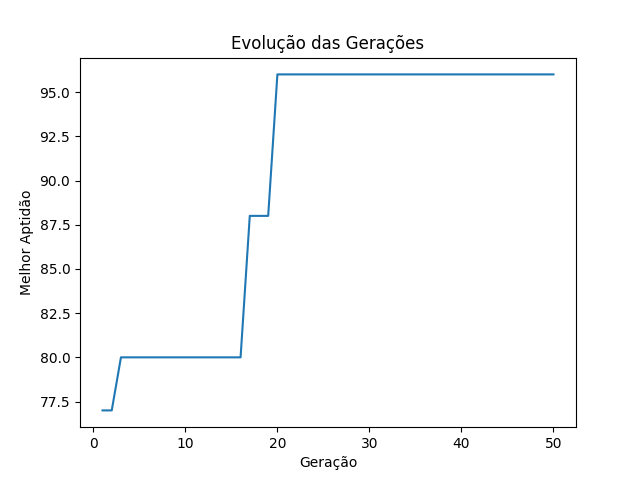
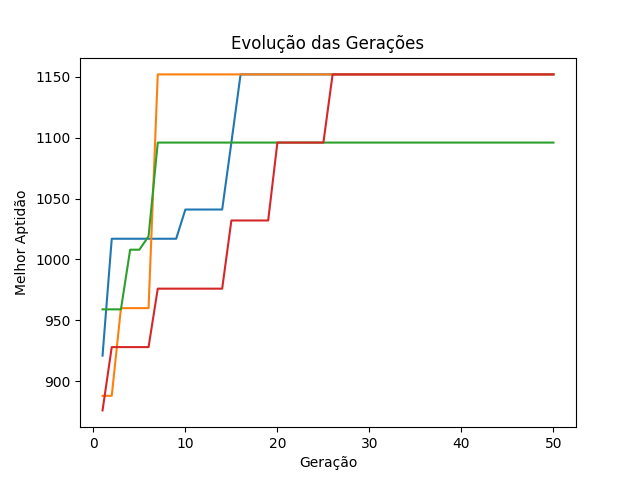
Reformulação da matriz de relacionamentos

diff --git a/algoritmoGenetico_flat.py b/algoritmoGenetico_flat.py
@@ -40,7 +40,7 @@ numero_pods = 10
 
 def gerar_matriz_nos():
     matriz_nos=[
-        {"id": 0, "cpu_no": 1000, "memoria_no": 1024},
+        {"id": 0, "cpu_no": 600, "memoria_no": 600},
         {"id": 1, "cpu_no": 1001, "memoria_no": 1024},
         {"id": 2, "cpu_no": 1002, "memoria_no": 1024}
     ]
@@ -61,16 +61,16 @@ def gerar_matriz_pods():
     ]
     
     matriz_relacionamentos = [
-        [0, 3, 0, 0, 5, 0, 6, 10, 0, 6],
-        [3, 0, 9, 5, 0, 0, 0, 2, 0, 0],
-        [0, 9, 0, 0, 7, 0, 10, 0, 0, 0],
-        [0, 5, 0, 0, 6, 10, 0, 0, 4, 5],
-        [5, 0, 7, 6, 0, 0, 5, 1, 0, 0],
-        [0, 0, 0, 10, 0, 0, 1, 0, 0, 10],
-        [6, 0, 10, 0, 5, 1, 0, 5, 0, 10],
-        [10, 2, 0, 0, 1, 0, 5, 0, 2, 5],
-        [0, 0, 0, 4, 0, 0, 0, 2, 0, 4],
-        [6, 0, 0, 5, 0, 10, 10, 5, 4, 0]
+        [0, 36, 0, 0, 60, 0, 72, 120, 0, 72],
+        [36, 0, 108, 60, 0, 0, 0, 24, 0, 0],
+        [0, 108, 0, 0, 84, 0, 120, 0, 0, 0],
+        [0, 60, 0, 0, 72, 120, 0, 0, 48, 60],
+        [60, 0, 84, 72, 0, 0, 60, 12, 0, 0],
+        [0, 0, 0, 120, 0, 0, 12, 0, 0, 120],
+        [72, 0, 120, 0, 60, 12, 0, 60, 0, 120],
+        [120, 24, 0, 0, 12, 0, 60, 0, 24, 60],
+        [0, 0, 0, 48, 0, 0, 0, 24, 0, 48],
+        [72, 0, 0, 60, 0, 120, 120, 60, 48, 0]
     ]
 
     return matriz_pods, matriz_relacionamentos

diff --git a/README.md b/README.md
@@ -44,23 +44,23 @@ Serão criadas três matrizes:
     ]
     ```
 - Matriz de Relacionamentos
-    - A matrid de relacionamentos é uma matriz simétrica
+    - A matriz de relacionamentos é uma matriz simétrica
     - Contem o peso do relacionamento entre os pods
     ```python
     matriz_relacionamentos = [
-        [0, 3, 0, 0, 5, 0, 6, 10, 0, 6],
-        [3, 0, 9, 5, 0, 0, 0, 2, 0, 0],
-        [0, 9, 0, 0, 7, 0, 10, 0, 0, 0],
-        [0, 5, 0, 0, 6, 10, 0, 0, 4, 5],
-        [5, 0, 7, 6, 0, 0, 5, 1, 0, 0],
-        [0, 0, 0, 10, 0, 0, 1, 0, 0, 10],
-        [6, 0, 10, 0, 5, 1, 0, 5, 0, 10],
-        [10, 2, 0, 0, 1, 0, 5, 0, 2, 5],
-        [0, 0, 0, 4, 0, 0, 0, 2, 0, 4],
-        [6, 0, 0, 5, 0, 10, 10, 5, 4, 0]
+        [0, 36, 0, 0, 60, 0, 72, 120, 0, 72],
+        [36, 0, 108, 60, 0, 0, 0, 24, 0, 0],
+        [0, 108, 0, 0, 84, 0, 120, 0, 0, 0],
+        [0, 60, 0, 0, 72, 120, 0, 0, 48, 60],
+        [60, 0, 84, 72, 0, 0, 60, 12, 0, 0],
+        [0, 0, 0, 120, 0, 0, 12, 0, 0, 120],
+        [72, 0, 120, 0, 60, 12, 0, 60, 0, 120],
+        [120, 24, 0, 0, 12, 0, 60, 0, 24, 60],
+        [0, 0, 0, 48, 0, 0, 0, 24, 0, 48],
+        [72, 0, 0, 60, 0, 120, 120, 60, 48, 0]
     ]
     ```
-- O algoritmo busca a melhor alocação possível de forma levando em consideração:
+- O algoritmo busca a melhor alocação possível levando em consideração:
     1. A taxa de comunicação entre os pods
         - Sendo interessante alocar no mesmo nós os pods que tenham maior taxa de comunicação
     2. O consumo de CPU
@@ -87,9 +87,9 @@ prob_mutacao = 0.3 # Probabilidade de mutação
 
 **Controle da Infraestrutura**
 
-As características de memória e cpu tanto dos Nós quanto dos PODs podem ser alteradas diretamente nas suas respectivas matrizes.
+As características de memória e cpu tanto dos Nós quanto dos PODs podem ser alteradas diretamente em suas respectivas matrizes.
 
-> **Note**: Para alteração da quantidade de Nós e de Pods é necessário alterar as variáveis numero_nos e numero_pod. Também é necessário adequar a matriz de relacionamentos conforme a nova quantidade de PODs inseridas.
+> **Note**: Para alteração da quantidade de Nós e de Pods é necessário alterar as variáveis: *numero_nos* e *numero_pod*. Também é necessário adequar a matriz de relacionamentos conforme a nova quantidade de PODs inseridas.
 
 ## Resultado do algoritmo
 
@@ -100,11 +100,11 @@ Exemplo de utilização:
 ---------------------------------------------
 
 Matriz dos Nos:
-Nó 0: Memória=1024 CPU=1000
+Nó 0: Memória=600 CPU=600
 Nó 1: Memória=1024 CPU=1001
 Nó 2: Memória=1024 CPU=1002
-Quantidade total de CPU dos Nós: 3003
-Quantidade total de Memória dos Nós: 3072
+Quantidade total de CPU dos Nós: 2603
+Quantidade total de Memória dos Nós: 2648
 
 Matriz de Pods:
 Pod 0: Memória=137 CPU=192
@@ -121,48 +121,50 @@ Quantidade total de CPU requerida pelos PODs: 1567
 Quantidade total de Memória requerida pelos PODs: 1397
 
 Matriz de Relacionamentos:
-[0, 3, 0, 0, 5, 0, 6, 10, 0, 6]
-[3, 0, 9, 5, 0, 0, 0, 2, 0, 0]
-[0, 9, 0, 0, 7, 0, 10, 0, 0, 0]
-[0, 5, 0, 0, 6, 10, 0, 0, 4, 5]
-[5, 0, 7, 6, 0, 0, 5, 1, 0, 0]
-[0, 0, 0, 10, 0, 0, 1, 0, 0, 10]
-[6, 0, 10, 0, 5, 1, 0, 5, 0, 10]
-[10, 2, 0, 0, 1, 0, 5, 0, 2, 5]
-[0, 0, 0, 4, 0, 0, 0, 2, 0, 4]
-[6, 0, 0, 5, 0, 10, 10, 5, 4, 0]
+[0, 36, 0, 0, 60, 0, 72, 120, 0, 72]
+[36, 0, 108, 60, 0, 0, 0, 24, 0, 0]
+[0, 108, 0, 0, 84, 0, 120, 0, 0, 0]
+[0, 60, 0, 0, 72, 120, 0, 0, 48, 60]
+[60, 0, 84, 72, 0, 0, 60, 12, 0, 0]
+[0, 0, 0, 120, 0, 0, 12, 0, 0, 120]
+[72, 0, 120, 0, 60, 12, 0, 60, 0, 120]
+[120, 24, 0, 0, 12, 0, 60, 0, 24, 60]
+[0, 0, 0, 48, 0, 0, 0, 24, 0, 48]
+[72, 0, 0, 60, 0, 120, 120, 60, 48, 0]
 
 ---------------------------------------------
 O algoritmo pode otimizar a alocação...
-Melhor indivíduo da geração 1: [2, 0, 0, 2, 2, 2, 2, 0, 0, 2], Aptidão: 77
-Melhor indivíduo da geração 2: [2, 0, 0, 2, 2, 2, 2, 0, 0, 2], Aptidão: 77
+Melhor indivíduo da geração 1: [1, 1, 1, 2, 2, 2, 1, 1, 0, 1], Aptidão: 984
+Melhor indivíduo da geração 2: [1, 1, 1, 2, 1, 2, 1, 1, 0, 1], Aptidão: 1048
 .
 .
 .
-Melhor indivíduo da geração 50: [2, 2, 2, 1, 2, 1, 2, 2, 1, 1], Aptidão: 96
+Melhor indivíduo da geração 50: [1, 1, 1, 0, 1, 0, 1, 1, 0, 0], Aptidão: 1152
 ---------------------------------------------
 Melhor alocação encontrada:
-Alocação: [2, 2, 2, 1, 2, 1, 2, 2, 1, 1]
-Aptidão: 96
-O POD 0 está alocado no Nó '2'
-O POD 1 está alocado no Nó '2'
-O POD 2 está alocado no Nó '2'
-O POD 3 está alocado no Nó '1'
-O POD 4 está alocado no Nó '2'
-O POD 5 está alocado no Nó '1'
-O POD 6 está alocado no Nó '2'
-O POD 7 está alocado no Nó '2'
-O POD 8 está alocado no Nó '1'
-O POD 9 está alocado no Nó '1'
-Recursos utilizados Nó 0: Memória = 0 CPU = 0
-Recursos utilizados Nó 1: Memória = 492 CPU = 617
-Recursos utilizados Nó 2: Memória = 905 CPU = 950
-O somatório do peso do relacionamento dos pods do nó 0 é 0
-O somatório do peso do relacionamento dos pods do nó 1 é 33
-O somatório do peso do relacionamento dos pods do nó 2 é 63
+Alocação: [1, 1, 1, 0, 1, 0, 1, 1, 0, 0]
+Aptidão: 1152
+O POD 0 está alocado no Nó '1'
+O POD 1 está alocado no Nó '1'
+O POD 2 está alocado no Nó '1'
+O POD 3 está alocado no Nó '0'
+O POD 4 está alocado no Nó '1'
+O POD 5 está alocado no Nó '0'
+O POD 6 está alocado no Nó '1'
+O POD 7 está alocado no Nó '1'
+O POD 8 está alocado no Nó '0'
+O POD 9 está alocado no Nó '0'
+Recursos utilizados Nó 0: Memória = 492 CPU = 617
+Recursos utilizados Nó 1: Memória = 905 CPU = 950
+Recursos utilizados Nó 2: Memória = 0 CPU = 0
+O somatório do peso do relacionamento dos pods do nó 0 é 396
+O somatório do peso do relacionamento dos pods do nó 1 é 756
+O somatório do peso do relacionamento dos pods do nó 2 é 0
 ```
 O algoritmo irá retornar o melhor indivíduo (melhor alocação) de cada uma das gerações. Ao final o Algoritmo retorna a melhor alocação e a melhor aptidão encontrada.
 
-O Algoritmo também irá retornar um grafico representando a evolução das alocações até a alocação ótmia encontrada.
+O Algoritmo também irá retornar um grafico representando a evolução das alocações até a alocação ótmia encontrada. O grafico a seguir apresenta o concatenado de 4 testes que foram executados.
 
 ![Melhor alocação encontrada](img/Figure_1.png)
+
+Representando a convergência para o mesmo valor de alocação e mesma aptidão. É preciso salientar porém, que não significa que das 4 iterações todas retornaram a mesma alocação. Pois, é possível, dado o contexto, que alocações diferentes resultem em um mesmo valor de aptidão contanto que atenda os critérios propostos.
